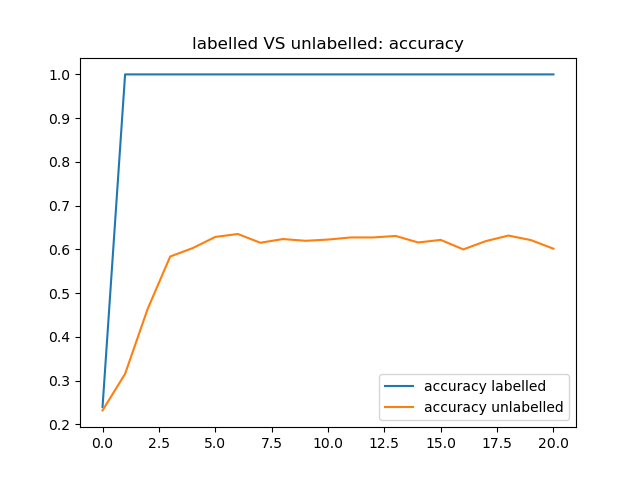
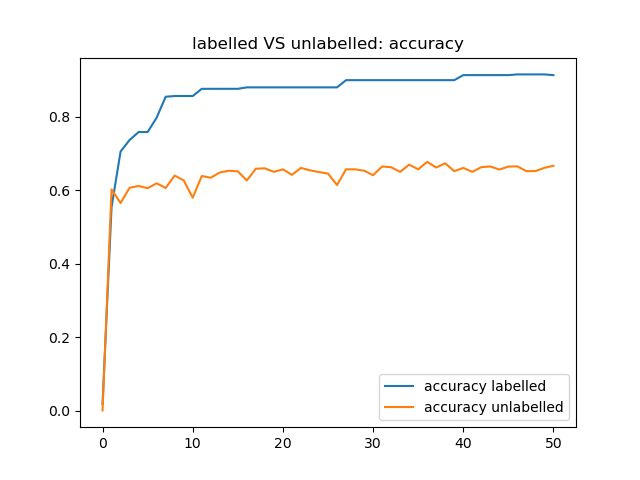
update posterior

diff --git a/dgm4sca/inference/posterior.py b/dgm4sca/inference/posterior.py
@@ -7,6 +7,7 @@ from typing import List, Optional, Union, Tuple, Callable
 from scipy.optimize import linear_sum_assignment
 import numpy as np
 import pandas as pd
+from sklearn.neighbors import KNeighborsClassifier
 import torch
 # import torch.distributions as distributions
 # from tqdm.auto import tqdm
@@ -122,6 +123,7 @@ class Posterior:
         use_cuda=True,
         data_loader_kwargs=dict(),
     ):
+        self.model_zl = False
         """
 
         When added to annotation, has a private name attribute
@@ -213,8 +215,8 @@ class Posterior:
         reconstruction_error = compute_reconstruction_error(self.model, self)
         logger.debug("Reconstruction Error : %.4f" % reconstruction_error)
         return reconstruction_error
-    #
-    # reconstruction_error.mode = "min"
+
+    reconstruction_error.mode = "min"
     #
     # @torch.no_grad()
     # def marginal_ll(self, n_mc_samples=1000):
@@ -1419,6 +1421,7 @@ class Posterior:
     #         latent = TSNE().fit_transform(latent[idx_t_sne])
     #     return latent, idx_t_sne
     #
+
     def raw_data(self):
         """
         Returns raw data for classification
@@ -1427,5 +1430,109 @@ class Posterior:
             self.gene_dataset.X[self.indices],
             self.gene_dataset.labels[self.indices].ravel(),
         )
+
+    def accuracy(self):
+        model, cls = (
+            (self.sampling_model, self.model)
+            if hasattr(self, "sampling_model")
+            else (self.model, None)
+        )
+        acc = compute_accuracy(model, self, classifier=cls, model_zl=self.model_zl)
+        logger.debug("Acc: %.4f" % (acc))
+        return acc
+
+    accuracy.mode = "max"
+
+    @torch.no_grad()
+    def hierarchical_accuracy(self):
+        all_y, all_y_pred = self.compute_predictions()
+        acc = np.mean(all_y == all_y_pred)
+
+        all_y_groups = np.array([self.model.labels_groups[y] for y in all_y])
+        all_y_pred_groups = np.array([self.model.labels_groups[y] for y in all_y_pred])
+        h_acc = np.mean(all_y_groups == all_y_pred_groups)
+
+        logger.debug("Hierarchical Acc : %.4f\n" % h_acc)
+        return acc
+
+    accuracy.mode = "max"
+
+    @torch.no_grad()
+    def compute_predictions(self, soft=False):
+        """
+        :return: the true labels and the predicted labels
+        :rtype: 2-tuple of :py:class:`numpy.int32`
+        """
+        model, cls = (
+            (self.sampling_model, self.model)
+            if hasattr(self, "sampling_model")
+            else (self.model, None)
+        )
+        return compute_predictions(
+            model, self, classifier=cls, soft=soft, model_zl=self.model_zl
+        )
+
+    @torch.no_grad()
+    def unsupervised_classification_accuracy(self):
+        all_y, all_y_pred = self.compute_predictions()
+        uca = unsupervised_clustering_accuracy(all_y, all_y_pred)[0]
+        logger.debug("UCA : %.4f" % (uca))
+        return uca
+
+    unsupervised_classification_accuracy.mode = "max"
+
+    @torch.no_grad()
+    def nn_latentspace(self, posterior):
+        data_train, _, labels_train = self.get_latent()
+        data_test, _, labels_test = posterior.get_latent()
+        nn = KNeighborsClassifier()
+        nn.fit(data_train, labels_train)
+        score = nn.score(data_test, labels_test)
+        return score
+
+@torch.no_grad()
+def compute_predictions(
+    model, data_loader, classifier=None, soft=False, model_zl=False
+):
+    all_y_pred = []
+    all_y = []
+    for i_batch, tensors in enumerate(data_loader):
+        sample_batch, _, _, _, labels = tensors
+        all_y += [labels.view(-1).cpu()]
+
+        if hasattr(model, "classify"):
+            y_pred = model.classify(sample_batch)
+        elif classifier is not None:
+            # Then we use the specified classifier
+            if model is not None:
+                if model.log_variational:
+                    sample_batch = torch.log(1 + sample_batch)
+                if model_zl:
+                    sample_z = model.z_encoder(sample_batch)[0]
+                    sample_l = model.l_encoder(sample_batch)[0]
+                    sample_batch = torch.cat((sample_z, sample_l), dim=-1)
+                else:
+                    sample_batch, _, _ = model.z_encoder(sample_batch)
+            y_pred = classifier(sample_batch)
+        else:  # The model is the raw classifier
+            y_pred = model(sample_batch)
+
+        if not soft:
+            y_pred = y_pred.argmax(dim=-1)
+
+        all_y_pred += [y_pred.cpu()]
+
+    all_y_pred = np.array(torch.cat(all_y_pred))
+    all_y = np.array(torch.cat(all_y))
+
+    return all_y, all_y_pred
+
+@torch.no_grad()
+def compute_accuracy(vae, data_loader, classifier=None, model_zl=False):
+    all_y, all_y_pred = compute_predictions(
+        vae, data_loader, classifier=classifier, model_zl=model_zl
+    )
+    return np.mean(all_y == all_y_pred)
+
 
 

diff --git a/dgm4sca/inference/annotation.py b/dgm4sca/inference/annotation.py
@@ -20,71 +20,6 @@ from dgm4sca.inference.posterior import unsupervised_clustering_accuracy
 logger = logging.getLogger(__name__)
 
 
-class AnnotationPosterior(Posterior):
-    def __init__(self, *args, model_zl=False, **kwargs):
-        super().__init__(*args, **kwargs)
-        self.model_zl = model_zl
-
-    def accuracy(self):
-        model, cls = (
-            (self.sampling_model, self.model)
-            if hasattr(self, "sampling_model")
-            else (self.model, None)
-        )
-        acc = compute_accuracy(model, self, classifier=cls, model_zl=self.model_zl)
-        logger.debug("Acc: %.4f" % (acc))
-        return acc
-
-    accuracy.mode = "max"
-
-    @torch.no_grad()
-    def hierarchical_accuracy(self):
-        all_y, all_y_pred = self.compute_predictions()
-        acc = np.mean(all_y == all_y_pred)
-
-        all_y_groups = np.array([self.model.labels_groups[y] for y in all_y])
-        all_y_pred_groups = np.array([self.model.labels_groups[y] for y in all_y_pred])
-        h_acc = np.mean(all_y_groups == all_y_pred_groups)
-
-        logger.debug("Hierarchical Acc : %.4f\n" % h_acc)
-        return acc
-
-    accuracy.mode = "max"
-
-    @torch.no_grad()
-    def compute_predictions(self, soft=False):
-        """
-        :return: the true labels and the predicted labels
-        :rtype: 2-tuple of :py:class:`numpy.int32`
-        """
-        model, cls = (
-            (self.sampling_model, self.model)
-            if hasattr(self, "sampling_model")
-            else (self.model, None)
-        )
-        return compute_predictions(
-            model, self, classifier=cls, soft=soft, model_zl=self.model_zl
-        )
-
-    @torch.no_grad()
-    def unsupervised_classification_accuracy(self):
-        all_y, all_y_pred = self.compute_predictions()
-        uca = unsupervised_clustering_accuracy(all_y, all_y_pred)[0]
-        logger.debug("UCA : %.4f" % (uca))
-        return uca
-
-    unsupervised_classification_accuracy.mode = "max"
-
-    @torch.no_grad()
-    def nn_latentspace(self, posterior):
-        data_train, _, labels_train = self.get_latent()
-        data_test, _, labels_test = posterior.get_latent()
-        nn = KNeighborsClassifier()
-        nn.fit(data_train, labels_train)
-        score = nn.score(data_test, labels_test)
-        return score
-
-
 class ClassifierTrainer(Trainer):
     r"""The ClassifierInference class for training a classifier either on the raw data or on top of the latent
         space of another model (VAE, VAEC, SCANVI).
@@ -130,7 +65,8 @@ class ClassifierTrainer(Trainer):
             self.gene_dataset,
             train_size=train_size,
             test_size=test_size,
-            type_class=AnnotationPosterior,
+            # type_class=AnnotationPosterior,
+            type_class=Posterior,
         )
         self.train_set.to_monitor = ["accuracy"]
         self.test_set.to_monitor = ["accuracy"]
@@ -177,13 +113,13 @@ class ClassifierTrainer(Trainer):
             if hasattr(self, "sampling_model")
             else (self.model, None)
         )
-        full_set = self.create_posterior(type_class=AnnotationPosterior)
+        # full_set = self.create_posterior(type_class=AnnotationPosterior)
+        full_set = self.create_posterior(type_class=Posterior)
         return compute_predictions(
             model, full_set, classifier=cls, soft=soft, model_zl=self.sampling_zl
         )
 
 class JointSemiSupervisedTrainer(Trainer):
-# class SemiSupervisedTrainer(Trainer):
     r"""The SemiSupervisedTrainer class for the semi-supervised training of an autoencoder.
     This parent class can be inherited to specify the different training schemes for semi-supervised learning
     """
@@ -330,7 +266,8 @@ class JointSemiSupervisedTrainer(Trainer):
         gene_dataset=None,
         shuffle=False,
         indices=None,
-        type_class=AnnotationPosterior,
+        # type_class=AnnotationPosterior,
+        type_class=Posterior,
     ):
         return super().create_posterior(
             model, gene_dataset, shuffle, indices, type_class

diff --git a/annotationtest.py b/annotationtest.py
@@ -9,14 +9,14 @@ import matplotlib.pyplot as plt
 import numpy as np
 
 """data loading"""
-gene_dataset = LoomDataset(filename='simulation_3.loom', save_path="./data")
-# gene_dataset = LoomDataset(filename='data_loom.loom', save_path="./data")
+# gene_dataset = LoomDataset(filename='simulation_3.loom', save_path="./data")
+gene_dataset = LoomDataset(filename='data_loom.loom', save_path="./data")
 print(gene_dataset.labels)
 print(gene_dataset)
 
 use_batches = False
 use_cuda = True
-n_epochs = 20
+n_epochs = 50
 n_cl = 10
 scanvi = SCANVI(gene_dataset.nb_genes, gene_dataset.n_batches, gene_dataset.n_labels)
 trainer = JointSemiSupervisedTrainer(scanvi, gene_dataset,
